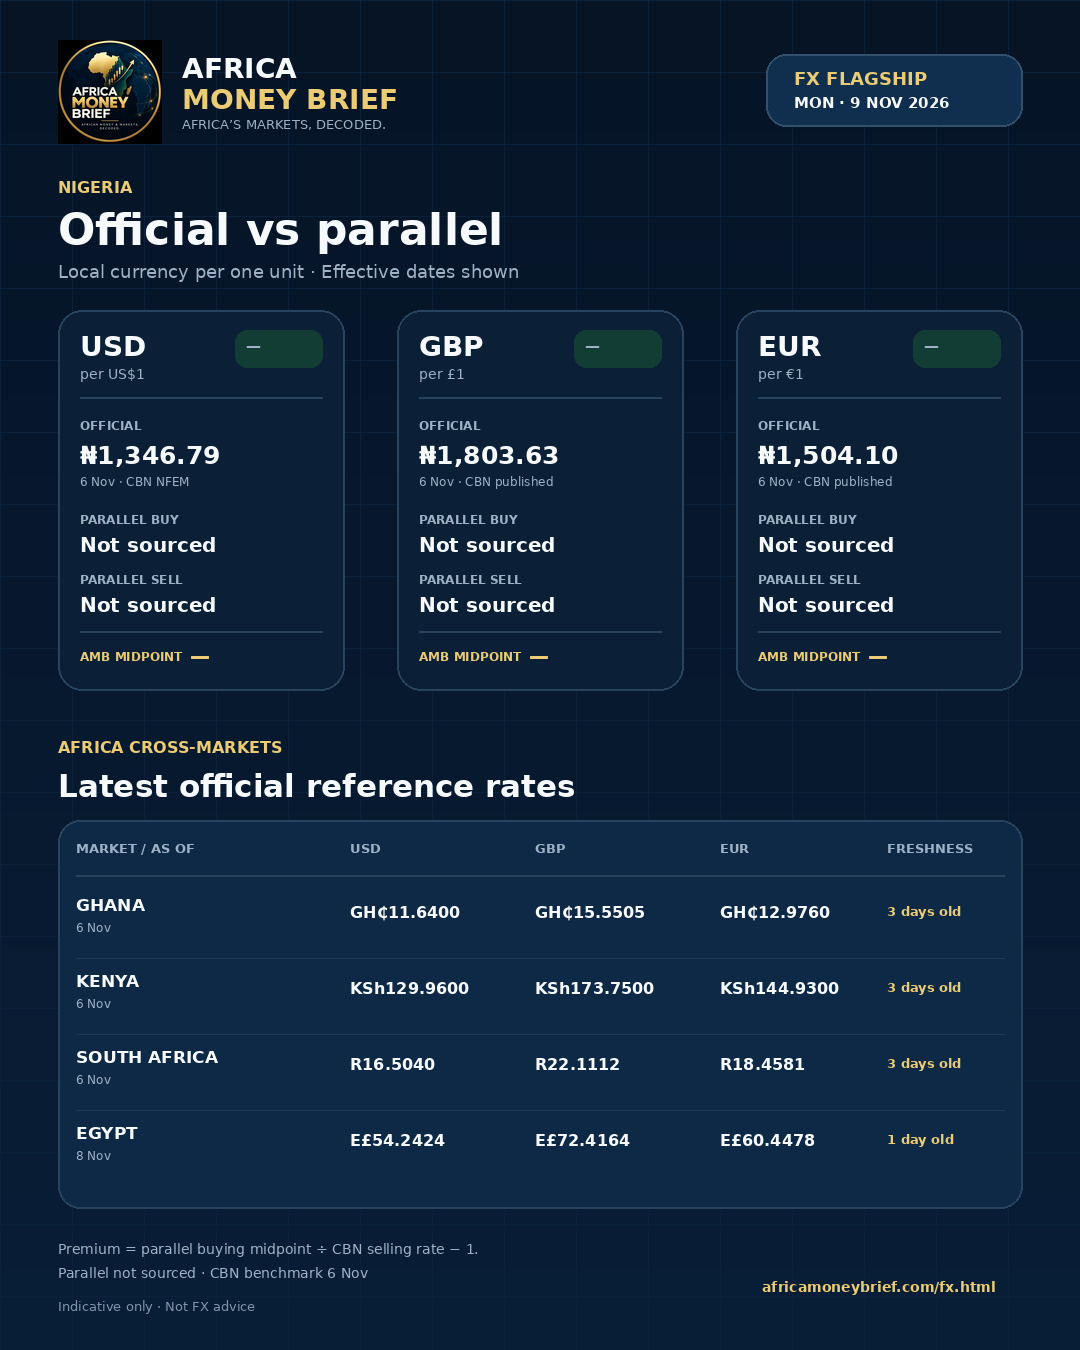
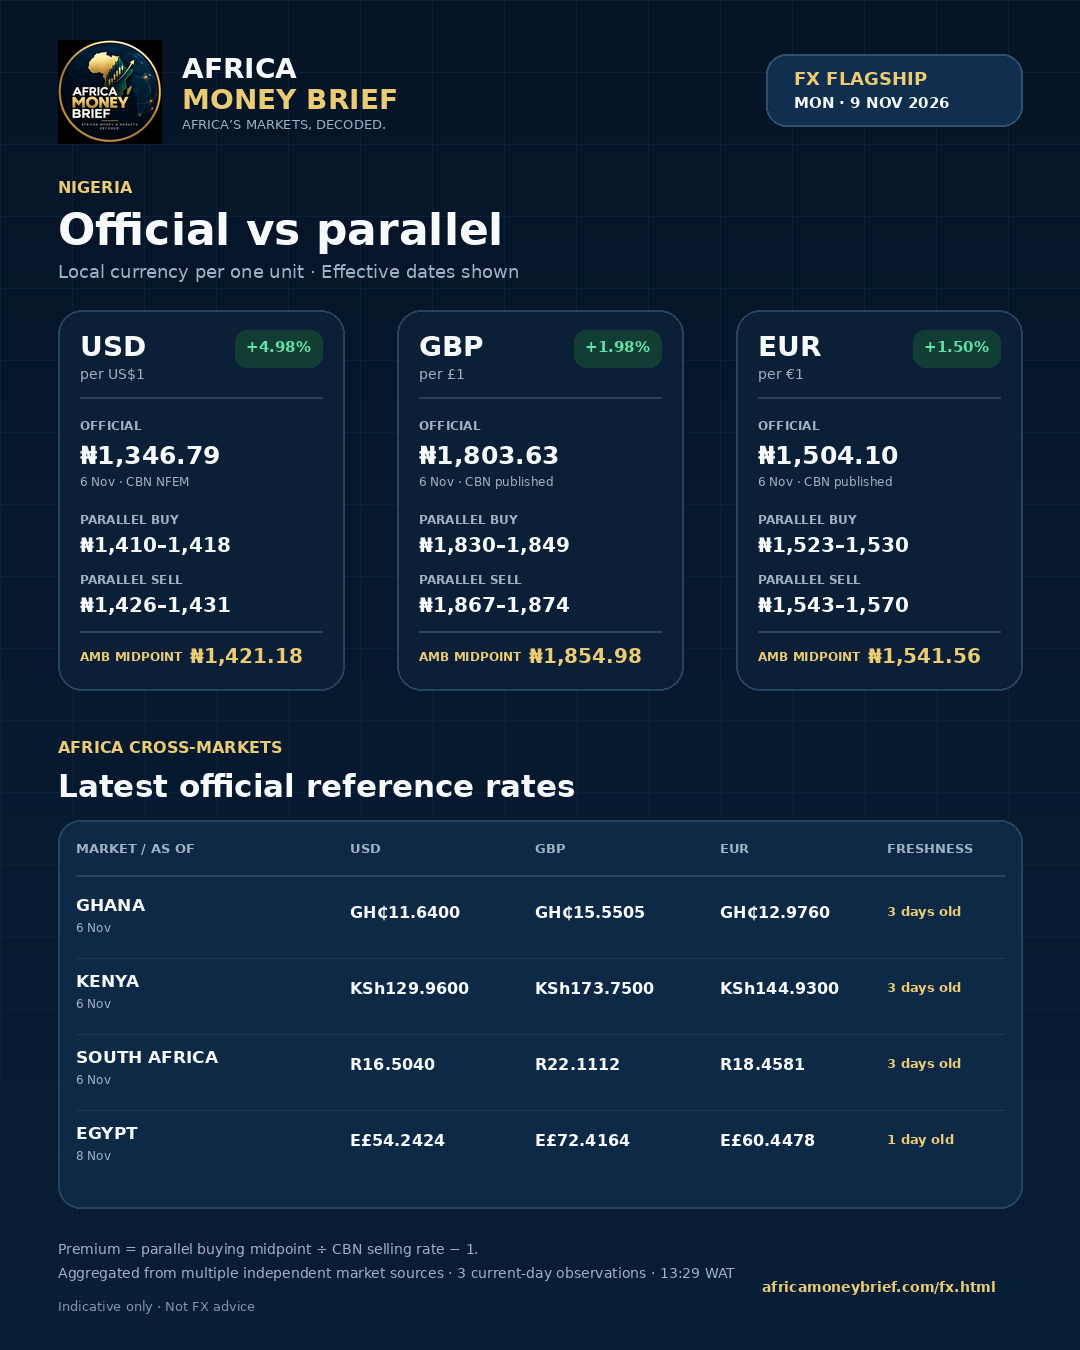
PREPARED Early Look 2026-11-10
Status: PREPARED — NOT PUBLISHED

Claude-Session: https://claude.ai/code/session_01X8HPGG1nSgfd7YGgRZx6Qx

diff --git a/handoff/fx/2026-11-10-early.md b/handoff/fx/2026-11-10-early.md
@@ -1,0 +1,43 @@
+# Early Look 2026-11-10 — preparer handoff
+
+**Status: PREPARED — NOT PUBLISHED** · Flags: BLOCKED_SOURCE (Nigeria parallel; SARB; CBE)
+
+- WAT verification timestamp: 10 Nov 2026, 06:20 WAT. `staging/claude-fx` synchronised with `main` (e543f92; tree matches main, main preferred) before preparing.
+- Commit SHA: commit "PREPARED Early Look 2026-11-10" on `staging/claude-fx` (SHA in run summary; a commit cannot embed its own SHA).
+
+## Official sources
+
+| Market | Source | Effective | USD / GBP / EUR | Label |
+|---|---|---|---|---|
+| Nigeria (CBN selling) | https://www.cbn.gov.ng/api/GetAllExchangeRates | 9 Nov 2026 (latest in feed) | 1349.3413 / 1810.5462 / 1510.4527 | latest available benchmark |
+| Ghana (BoG) | https://www.bog.gov.gh/treasury-and-the-markets/daily-interbank-fx-rates/ | 9 Nov 2026 | mid 11.6900 / 15.6804 / 13.0948 (USD 11.6842/11.6958; GBP 15.6720/15.6888; EUR 13.0883/13.1013) | latest dated table |
+| Kenya (CBK Daily KES) | https://www.centralbank.go.ke/ ("Posted On: 09-11-2026") | posted 9 Nov; close 6 Nov inferred | 129.96 / 173.75 / 144.93 | commercial-banks' average closing rates; not buy/sell |
+| South Africa (SARB) | https://custom.resbank.co.za/SarbWebApi/WebIndicators/HomePageRates | **6 Nov (carried forward)** | 16.5040 / 22.1112 / 18.4581 | BLOCKED_SOURCE |
+| Egypt (CBE) | https://www.cbe.org.eg/en/economic-research/statistics/cbe-exchange-rates | **8 Nov (carried forward)** | 54.2424 / 72.4164 / 60.4478 | BLOCKED_SOURCE |
+
+## Nigeria parallel evidence
+
+**BLOCKED_SOURCE — no parallel ranges, AMB midpoints or premiums published.** No Source A / Source B observations could be obtained in this session (parallel-rate pages unreachable; web search returned only stale 2024–2025 items). Nothing fabricated. **Validator:** the validated 9 Nov dataset holds parallel ranges, but they are a day old and not carried forward. Use only if you independently verify ≥2 timestamped observations per currency (previous-close/early labelling, timestamps shown), then add parallel fields, recompute midpoints and premium (buy mid / CBN selling − 1), apply the range gate and regenerate image/text.
+
+## Calculations
+
+- CBN day-on-day (text): USD 1349.3413/1346.7945 − 1 = +0.19%; GBP 1810.5462/1803.6272 − 1 = +0.38%; EUR 1510.4527/1504.1001 − 1 = +0.42%.
+- Ghana mids as published by BoG (check: (11.6842+11.6958)/2 = 11.6900; (15.6720+15.6888)/2 = 15.6804; (13.0883+13.1013)/2 = 13.0948). USD 11.6900 vs 11.6400 (6 Nov) = +0.43% (cedi softer).
+
+## Carried-forward values
+
+- SARB 6 Nov: host blocked by the session's network policy. Latest verified value, true date shown. Validator should re-read; a 9 Nov value likely exists.
+- CBE 8 Nov: site returned "Request Rejected" (curl and WebFetch). Latest verified (validator-checked 8 Nov table), true date shown.
+
+## Unresolved issues
+
+- BLOCKED_SOURCE: Nigeria parallel (all currencies), SARB (carried), CBE (carried).
+
+## Render / test results
+
+- `python3 tools/render.py` passed with the new early file; generated site pages reverted, not committed (validator regenerates).
+- Image 1080×1350, labelled FX EARLY LOOK, rendered by tools/render_fx_social.py (/usr/bin/python3; default python3's Pillow is broken). Every number, label, date and footnote visually compared to the dataset — all match (parallel shown "Not sourced").
+- Text rendered by tools/render_fx_social_text.py from the same dataset: five countries, FX URL, rates-vary/informational-only disclaimer, generic attribution only. No provider names in any file.
+- Nothing merged to main, deployed or posted.
+
+PREPARED — NOT PUBLISHED

diff --git a/handoff/fx/2026-11-09-flagship.md b/handoff/fx/2026-11-09-flagship.md
@@ -41,3 +41,13 @@ BLOCKED_SOURCE: Nigeria parallel (all currencies), SARB (carried), CBE (carried)
 - Nothing merged to main, deployed or posted.
 
 PREPARED — NOT PUBLISHED
+
+## Independent validator addendum — 13:29 WAT
+
+The preparer's Nigeria source block was cleared before publication. Three independent 9 Nov observations were rechecked: AbokiFx.io (08:17 WAT), DollarToNaira.ng (09:47 WAT), and Mmiri.ng (10:42 WAT). The final observed extrema are USD buy 1,410–1,417.83 / sell 1,425.80–1,431.08; GBP buy 1,830–1,848.76 / sell 1,867.05–1,874.11; EUR buy 1,523.26–1,530 / sell 1,542.99–1,570. Recomputed parallel-buy premiums against the directly verified 6 Nov CBN selling rows are 4.98%, 1.98%, and 1.50%, respectively. The EUR sell range is wider than the publication gate and carries a documented `range_flag_reason`.
+
+Official-source revalidation found no later CBN or BoG rows. CBK's 9 Nov posting is labelled as the commercial-banks' average closing reference for the 6 Nov session, not a buy/sell quote. The 6 Nov SARB values were independently corroborated against current publication records after the HomePageRates host reset this session. The CBE page was directly readable and confirmed 8 Nov buy/sell rows and the published midpoints.
+
+The final dataset, website outputs, canonical 1080×1350 image and social text were regenerated from the corrected source data. `tools/render.py`, `tools/render.py --check`, `tools/render_fx_social.py`, and `tools/render_fx_social_text.py` all passed. The image was visually inspected against every displayed value, label, date, footnote, timestamp and URL.
+
+VALIDATED — READY TO PUBLISH
